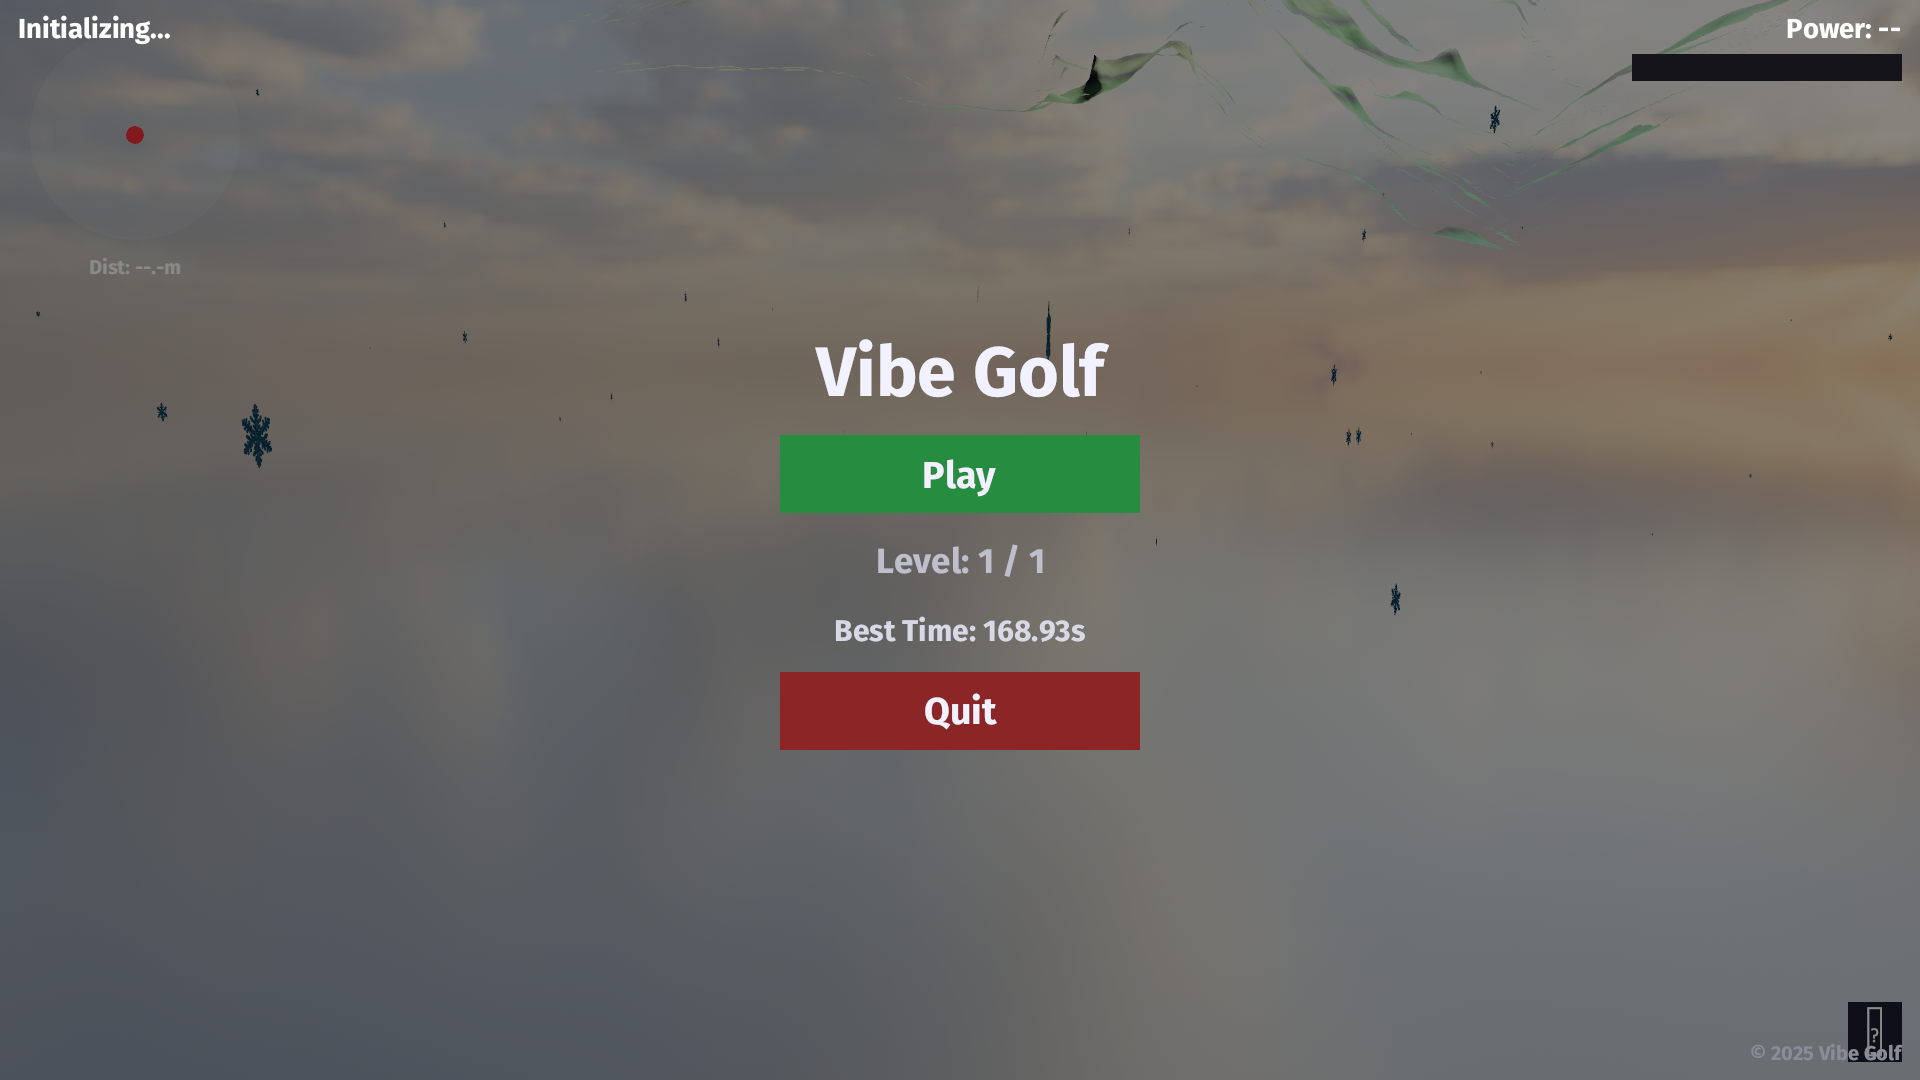
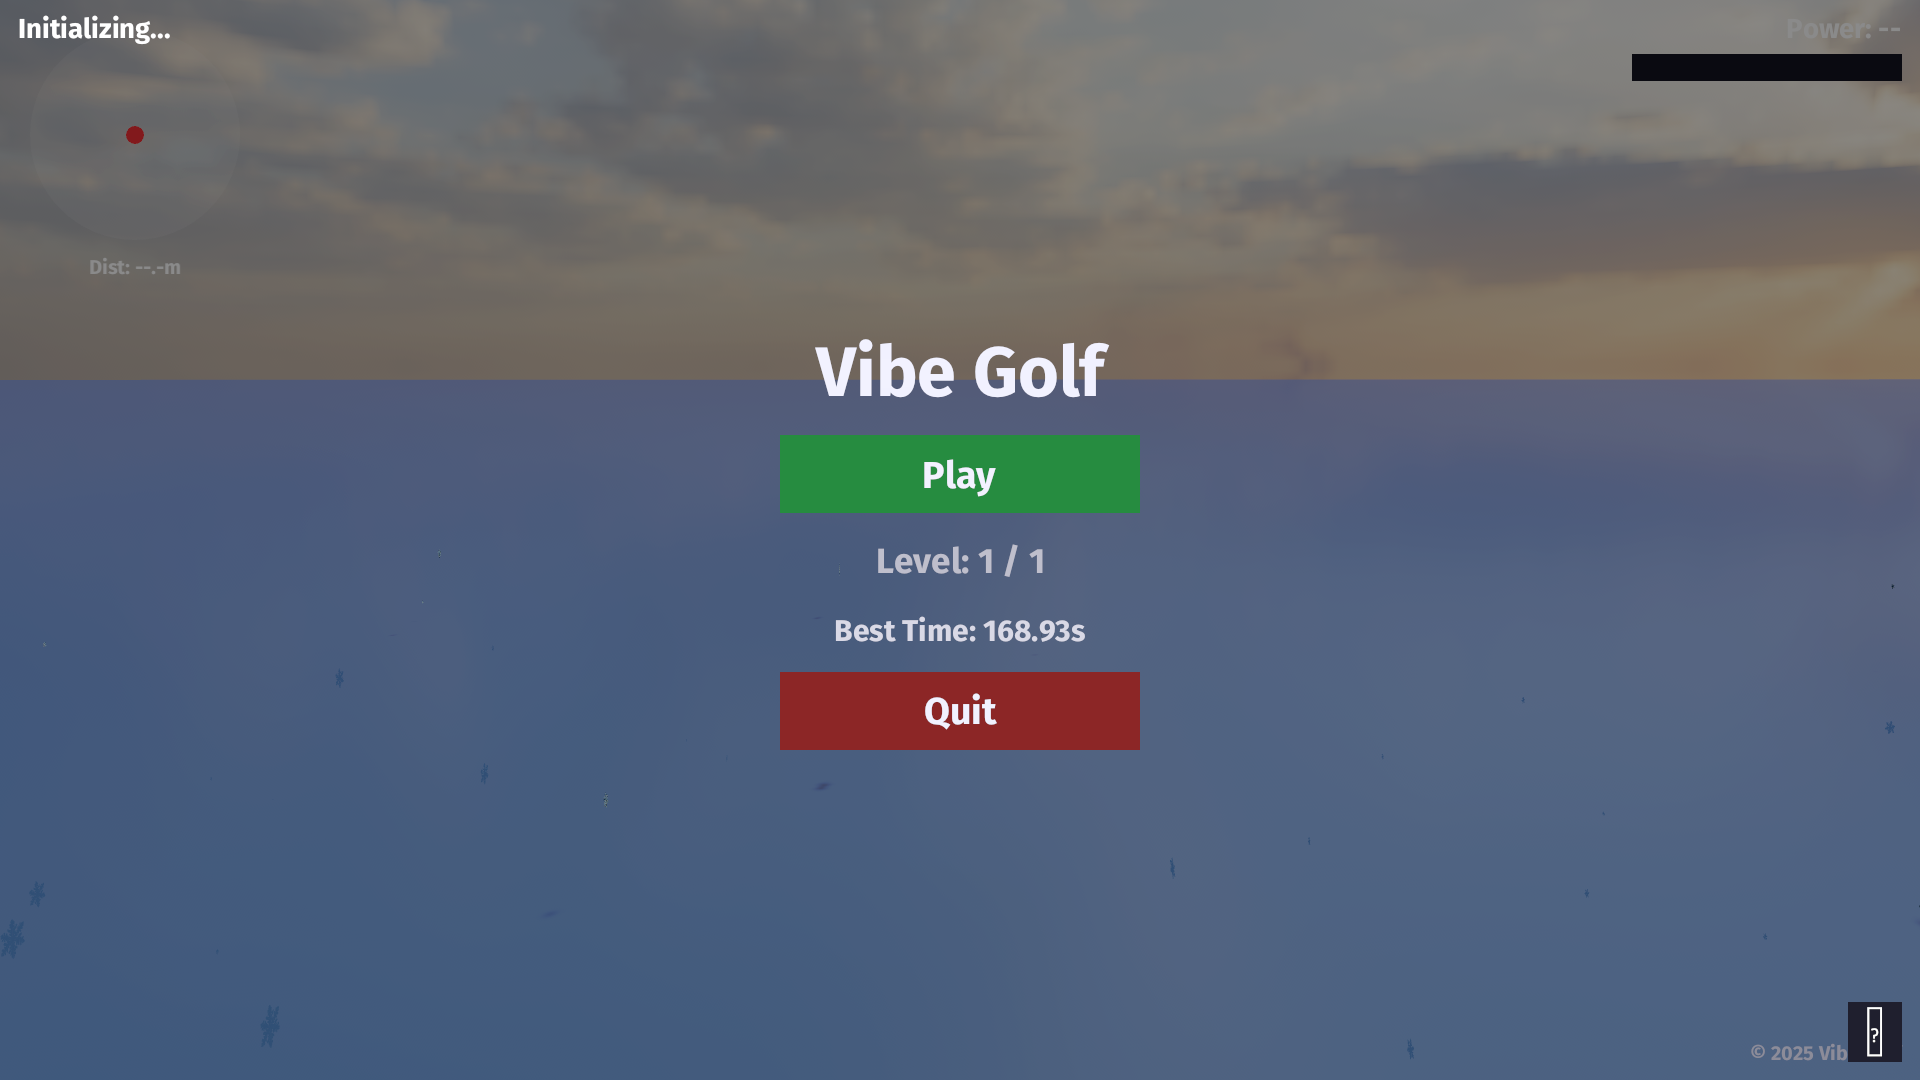
better camera

diff --git a/src/plugins/camera.rs b/src/plugins/camera.rs
@@ -22,8 +22,10 @@ impl Default for OrbitCameraState {
     fn default() -> Self {
         Self {
             yaw: 0.0,
-            pitch: 20f32.to_radians(),
-            radius: 22.0,
+            // Higher initial pitch for elevated vantage
+            pitch: 50f32.to_radians(),
+            // Larger default radius so camera starts farther and higher
+            radius: 55.0,
         }
     }
 }
@@ -40,7 +42,10 @@ pub struct OrbitCameraConfig {
     pub sens_pitch: f32,
     pub target_height_offset: f32,
     pub min_clearance: f32,
-    // Maximum linear speeds (units / second) for speed‑limited lerp (currently unused; immediate follow).
+    // Spring constants (higher = snappier)
+    pub follow_spring: f32,
+    pub camera_spring: f32,
+    // Legacy speed limits (still available, unused in spring mode)
     pub cam_max_speed: f32,
     pub target_max_speed: f32, // should be >= cam_max_speed (spec: 2x)
 }
@@ -48,15 +53,19 @@ pub struct OrbitCameraConfig {
 impl Default for OrbitCameraConfig {
     fn default() -> Self {
         Self {
-            pitch_min: (-10f32).to_radians(),
-            pitch_max: 65f32.to_radians(),
+            pitch_min: 5f32.to_radians(),
+            pitch_max: 85f32.to_radians(),
             radius_min: 4.0,
-            radius_max: 32.0,
+            radius_max: 100.0,
             zoom_speed: 1.0,
             sens_yaw: 0.005,
             sens_pitch: 0.005,
-            target_height_offset: 0.3,
+            // Raise follow point a bit so even low pitches keep camera higher
+            target_height_offset: 1.0,
             min_clearance: 1.0,
+            // Increased for tighter, faster convergence
+            follow_spring: 60.0,
+            camera_spring: 6.0,
             cam_max_speed: 20.0,
             target_max_speed: 40.0,
         }
@@ -66,14 +75,25 @@ impl Default for OrbitCameraConfig {
 /// Tracks smoothed follow target for camera (speed limited).
 #[derive(Resource)]
 pub struct CameraFollow {
-    pub smoothed_target: Vec3,
+    pub target: Vec3, // desired (raw) follow target (ball)
+    pub actual: Vec3, // smoothed (tweened) follow target
+    pub initialized: bool,
 }
 impl Default for CameraFollow {
     fn default() -> Self {
         Self {
-            smoothed_target: Vec3::ZERO,
+            target: Vec3::ZERO,
+            actual: Vec3::ZERO,
+            initialized: false,
         }
     }
+}
+
+#[derive(Resource, Default)]
+pub struct CameraActual {
+    pub target: Vec3, // desired camera position
+    pub actual: Vec3, // smoothed camera position
+    pub initialized: bool,
 }
 
 /// Tracks whether the cursor is currently locked for orbit control.
@@ -109,6 +129,7 @@ impl Plugin for CameraPlugin {
         app.insert_resource(OrbitCameraConfig::default())
             .insert_resource(OrbitCameraState::default())
             .insert_resource(CameraFollow::default())
+            .insert_resource(CameraActual::default())
             .insert_resource(OrbitCaptureState::default())
             .insert_resource(MenuCameraFlight::default())
             .add_systems(
@@ -117,6 +138,7 @@ impl Plugin for CameraPlugin {
                     orbit_camera_capture,
                     orbit_camera_input,
                     menu_camera_flight,
+                    camera_phase_transition,
                     orbit_camera_apply,
                 ),
             );
@@ -247,13 +269,36 @@ fn menu_camera_flight(
     cam_t.look_at(look_target, Vec3::Y);
 }
 
+fn camera_phase_transition(
+    phase: Option<Res<GamePhase>>,
+    mut last: Local<Option<GamePhase>>,
+    mut q_cam: Query<&mut Transform, With<OrbitCamera>>,
+    mut follow: ResMut<CameraFollow>,
+    mut actual: ResMut<CameraActual>,
+) {
+    let current = phase.map(|p| *p);
+    if current != *last {
+        if matches!(current, Some(GamePhase::Playing)) {
+            if let Ok(mut t) = q_cam.get_single_mut() {
+                // High-altitude initial spawn to show whole landscape
+                t.translation = Vec3::new(0.0, 1000.0, 0.0);
+            }
+            follow.initialized = false;
+            actual.initialized = false;
+        }
+        *last = current;
+    }
+}
+
 /// Apply gameplay camera follow with speed limits (position & target smoothing).
 fn orbit_camera_apply(
+    time: Res<Time>,
     state: Res<OrbitCameraState>,
     cfg: Res<OrbitCameraConfig>,
     sampler: Option<Res<TerrainSampler>>,
     phase: Option<Res<GamePhase>>,
     mut follow: ResMut<CameraFollow>,
+    mut actual: ResMut<CameraActual>,
     q_ball: Query<&Transform, With<Ball>>,
     mut q_cam: Query<&mut Transform, (With<OrbitCamera>, Without<Ball>)>,
 ) {
@@ -270,14 +315,31 @@ fn orbit_camera_apply(
     };
 
     let raw_target = ball_t.translation + Vec3::Y * cfg.target_height_offset;
+    follow.target = raw_target;
 
-    // Immediate target (no smoothing / perfect follow)
-    follow.smoothed_target = raw_target;
+    // Spring smoothing for follow target (magnetically attracted)
+    if !follow.initialized {
+        follow.actual = follow.target;
+        follow.initialized = true;
+    } else {
+        let dt = time.delta_seconds();
+        let k = cfg.follow_spring;
+        let alpha = 1.0 - (-k * dt).exp();
+        let target = follow.target;
+        let current = follow.actual;
+        follow.actual = current + (target - current) * alpha;
+    }
 
-    // Desired camera position (based on smoothed target)
-    let rot = Quat::from_rotation_y(state.yaw) * Quat::from_rotation_x(state.pitch);
-    let offset = rot * (Vec3::Z * state.radius);
-    let mut desired_pos = follow.smoothed_target + offset;
+    // Desired camera position (spherical from yaw/pitch so positive pitch raises camera)
+    // pitch in [0, ~pi/2]: 0 = horizontal, increasing -> higher
+    let yaw = state.yaw;
+    let pitch = state.pitch;
+    let dir = Vec3::new(
+        pitch.cos() * yaw.sin(),
+        pitch.sin(),
+        pitch.cos() * yaw.cos(),
+    );
+    let mut desired_pos = follow.actual + dir * state.radius;
 
     // Terrain clearance (optional)
     if let Some(s) = &sampler {
@@ -286,8 +348,20 @@ fn orbit_camera_apply(
             desired_pos.y = ground_y + cfg.min_clearance;
         }
     }
+    actual.target = desired_pos;
 
-    // Immediate camera position (no speed limit) so orientation & controls remain responsive.
-    cam_t.translation = desired_pos;
-    cam_t.look_at(follow.smoothed_target, Vec3::Y);
+    // Spring camera position toward desired target; keep initial high spawn for descent animation
+    if !actual.initialized {
+        actual.actual = cam_t.translation;
+        actual.initialized = true;
+    } else {
+        let dt = time.delta_seconds();
+        let k = cfg.camera_spring;
+        let alpha = 1.0 - (-k * dt).exp();
+        let target = actual.target;
+        let current = actual.actual;
+        actual.actual = current + (target - current) * alpha;
+    }
+    cam_t.translation = actual.actual;
+    cam_t.look_at(follow.actual, Vec3::Y);
 }
